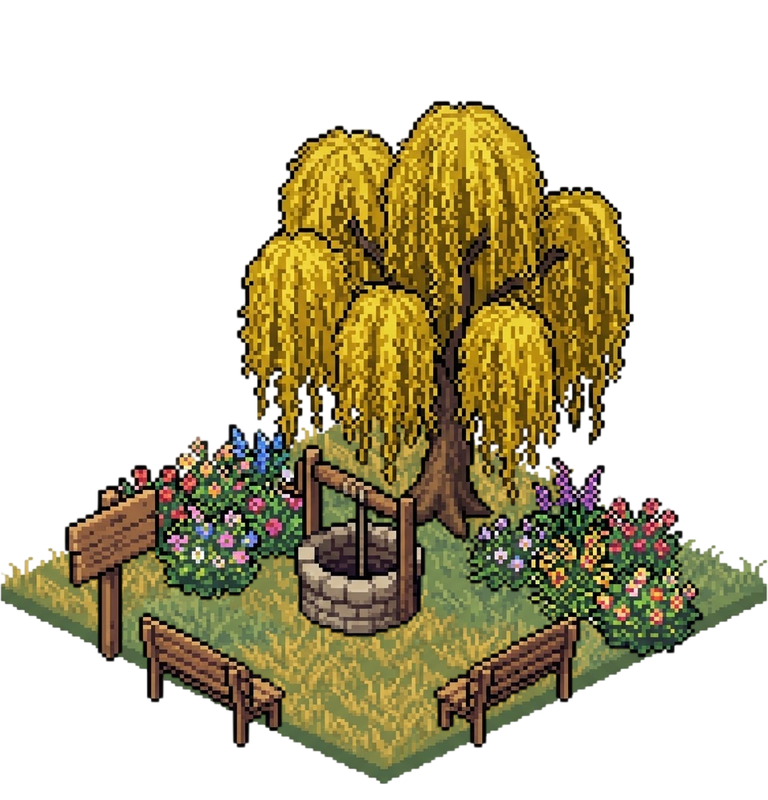
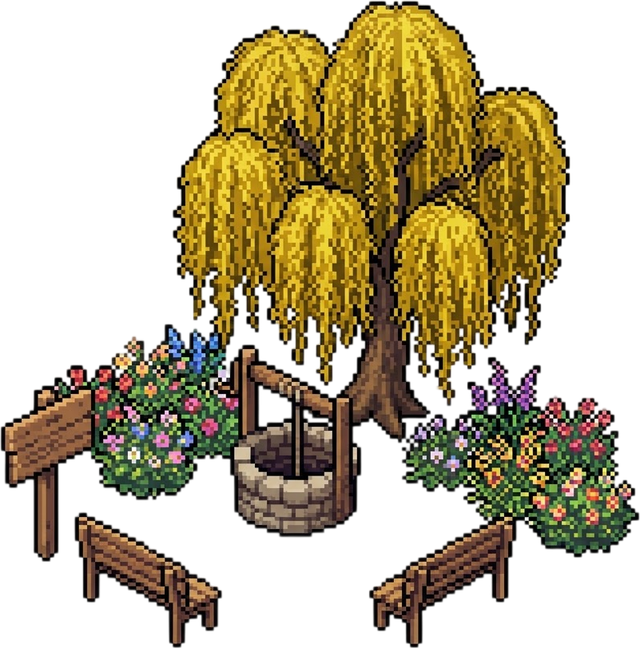
fix: bo nen co 3x3 cua khuon vien, chi giu cay/gieng/ghe
- royal_plaza.png gio chi con vat the trang tri (640x648), trong suot
- Draw rect thu ve 320x324, neo dx -96 dy -150; mat dat ben duoi la texture co chung
- Giu nguyen footprint 3x3 cho quest/placement

diff --git a/src/engine/canvasRenderer.js b/src/engine/canvasRenderer.js
@@ -1176,8 +1176,9 @@ export function createCanvasRenderer(ctx) {
     // Tòa thị chính 2x3 ô: chốt theo nudge thực tế (dx 47, dy -18 so với bản trước).
     b14_town_hall: { dx: -39, dy: -261, dw: 300, dh: 403 },
     // Quảng trường 3x3 ô: ảnh 512x376 thu về 392x288 (đúng tỉ lệ, KHÔNG ép về khung vuông) và neo tại tâm (16, 15); đỉnh trái/phải/dưới khớp hình thoi 3x3.
-    // Khuôn viên 3x3: nền cỏ ép đúng hình thoi 2:1 (384×192) + cây/giếng/ghế.
-    d01_plaza_fountain: { dx: -128, dy: -200, dw: 384, dh: 400 },
+    // Khuôn viên 3x3: chỉ còn cây/giếng/ghế/hoa, không vẽ nền riêng —
+    // mặt đất bên dưới là texture cỏ chung của bản đồ.
+    d01_plaza_fountain: { dx: -96, dy: -150, dw: 320, dh: 324 },
     // Kho Tổng Hợp 2x2: silhouette rộng đúng 256px (2 ô), chân đế chạm đáy hình thoi 2x2.
     // Ảnh gốc 1024px có bbox x 79..983, y 34..929 nên scale 290px cho bề ngang ~256px.
     b60_combined_warehouse: { dx: -86, dy: -135, dw: 290, dh: 290 },
